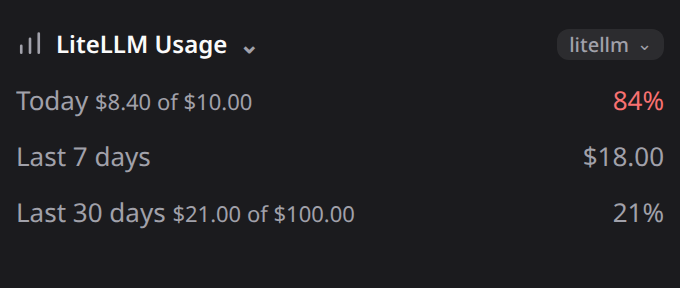
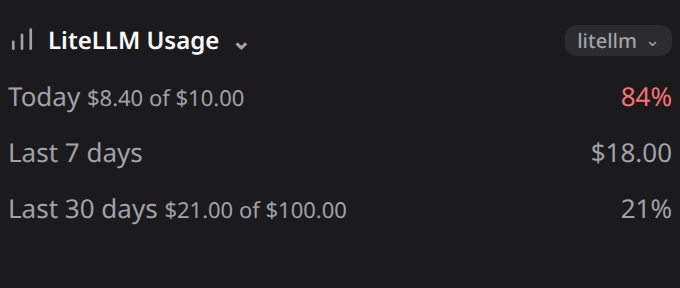
style: align the section with the native row inset

diff --git a/status/index.html b/status/index.html
@@ -24,12 +24,14 @@
       .llu-retry {
         margin: 0;
       }
+      /* The host already wraps this frame in `mx-1`; a row needs no second
+         inset to line up with the native Work Status rows and header. */
       .llu-row {
         display: flex;
         align-items: center;
         gap: 8px;
         height: 28px;
-        padding: 0 4px;
+        padding: 0;
         border-radius: 6px;
         color: var(--oc-muted);
         text-align: start;
@@ -60,7 +62,7 @@
       .llu-error {
         display: block;
         height: 28px;
-        padding: 0 4px;
+        padding: 0;
         line-height: 28px;
         overflow: hidden;
         text-overflow: ellipsis;
@@ -79,7 +81,7 @@
         display: flex;
         align-items: center;
         height: 28px;
-        padding: 0 4px;
+        padding: 0;
         border: none;
         background: none;
         font: inherit;
